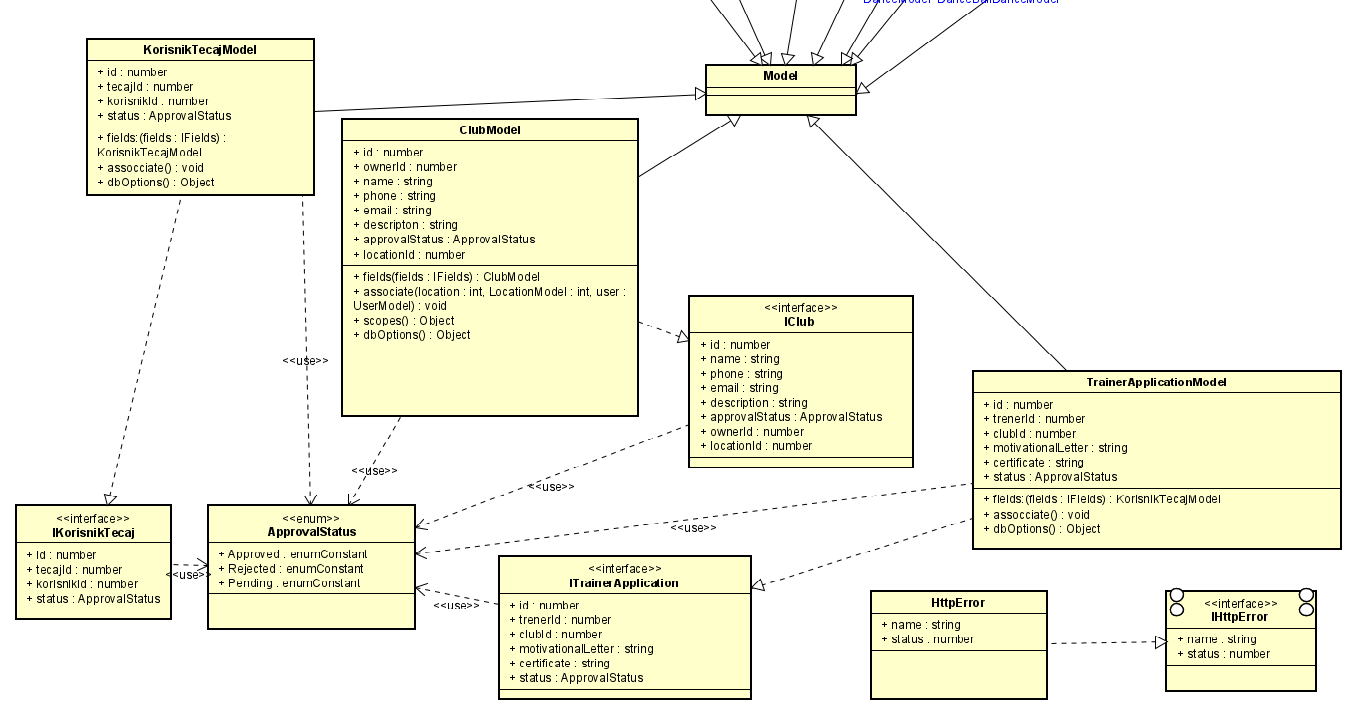
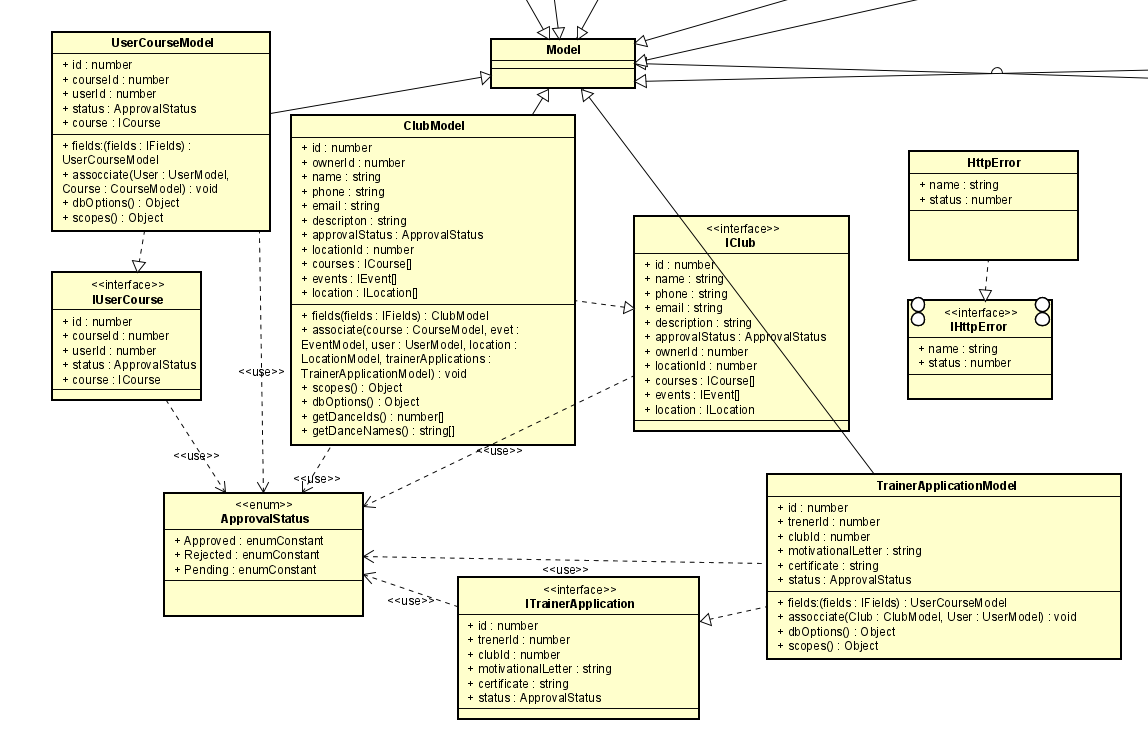
added class diagram and git activity

diff --git a/documentation/Dodatak.tex b/documentation/Dodatak.tex
@@ -206,7 +206,7 @@
 
 				Arhitektura i dizajn sustava	 &3h  &  &  &  &  & 2h &  \\ 
 				Baza podataka				& 1h & 5h &  & 5h &  & 2h & 5h\\ 
-				Dijagram razreda 			&  &  & 3h & 5h & 2h & 2h &  5h \\  
+				Dijagram razreda 			&  &  & 3h & 11h & 2h & 2h &  5h \\  
 				Dijagram stanja				& 2h &  &  &  &  &  &  \\ 
 				Dijagram aktivnosti 		&  & 3h &  &  &  &  &  \\ 
 				Dijagram komponenti			&  &  &  &  &  &  &  \\ 
@@ -215,7 +215,7 @@
 				Dijagram razmještaja			&  &  &  &  & 1.5h &  &  \\ 
 				Upute za puštanje u pogon 		&  &  &  &  &  &  &  \\  
 				Dnevnik sastajanja 			&  &  &  & 2h &  &  &3h  \\ 
-				Zaključak i budući rad 		&  &  &  &  &  &  &  \\  
+				Zaključak i budući rad 		&  &  &  & 1.5h  &  &  &  \\  
 				Popis literature 			&  &  &  &  &  &  &  \\  
 				&  &  &  &  &  &  &  \\ \hline 
 				\textit{Postavljanje klijentske strane aplikacije} 				&  & 9h &  &  & 5h & 2h &  \\  
@@ -227,6 +227,11 @@
 				\textit{Kreacija kluba} 							&  &  &  &  &  & 2h &  \\ 
 				\textit{Kreacija, uredivanje i pregled korisnika} 							&  &  &  &  &  & 5h &  \\ 
 				\textit{Pustanje u pogon (deployment)} 							&  &  &  &  &  & 4h  &  \\
+				\textit{Kreacija modela Course i Lesson, migracija, punjenje baze} 							&  &  &  & 10h &  & &  \\
+				\textit{Inicijalizacija mape} 							&  &  &  & 13h &  & &  \\
+				\textit{Prikaz courseva na karti} 							&  &  &  &17h  &  & &  \\
+				\textit{Prikaz Lessona na kalendaru} 							&  &  &  & 10h &  & &  \\
+				\textit{Seed adekvatnih podataka u bazu} 							&  &  &  &3h  &  & &  \\
 			\end{longtblr}
 					
 					
@@ -236,5 +241,40 @@
 		% \textbf{\textit{dio 2. revizije}}\\
 		
 		% \textit{Prenijeti dijagram pregleda promjena nad datotekama projekta. Potrebno je na kraju projekta generirane grafove s gitlaba prenijeti u ovo poglavlje dokumentacije. Dijagrami za vlastiti projekt se mogu preuzeti s gitlab.com stranice, u izborniku Repository, pritiskom na stavku Contributors.}
-		
+		\begin{figure}[H]
+			\includegraphics[scale=0.6]{slike/git1.png} %veličina slike u odnosu na originalnu datoteku i pozicija slike
+			\centering
+			\caption{Aktivnost develop grane 1}
+			\label{fig:aktivnost1}
+		\end{figure}
+		\begin{figure}[H]
+			\includegraphics[scale=0.6]{slike/git2.png} %veličina slike u odnosu na originalnu datoteku i pozicija slike
+			\centering
+			\caption{Aktivnost develop grane 2}
+			\label{fig:aktivnost2}
+		\end{figure}
+		\begin{figure}[H]
+			\includegraphics[scale=0.6]{slike/git3.png} %veličina slike u odnosu na originalnu datoteku i pozicija slike
+			\centering
+			\caption{Aktivnost develop grane 3}
+			\label{fig:aktivnost3}
+		\end{figure}
+		\begin{figure}[H]
+			\includegraphics[scale=0.6]{slike/git4.png} %veličina slike u odnosu na originalnu datoteku i pozicija slike
+			\centering
+			\caption{Aktivnost develop grane 4}
+			\label{fig:aktivnost4}
+		\end{figure}
+		\begin{figure}[H]
+			\includegraphics[scale=0.6]{slike/git5.png} %veličina slike u odnosu na originalnu datoteku i pozicija slike
+			\centering
+			\caption{Aktivnostde develop grane 5}
+			\label{fig:aktivnost5}
+		\end{figure}
+		\begin{figure}[H]
+			\includegraphics[scale=1.0]{slike/git6.png} %veličina slike u odnosu na originalnu datoteku i pozicija slike
+			\centering
+			\caption{Aktivnost devdoc grane}
+			\label{fig:aktivnost6}
+		\end{figure}
 	

diff --git a/documentation/Arhitektura.tex b/documentation/Arhitektura.tex
@@ -313,21 +313,20 @@ Osnovna karakteristika ovog stila je nezavisan razvoj pojedinih dijelova aplikac
 			logičku cjelinu ili nasljeđuju i implementiraju zajedničke enumeracuje ili sučelja.
 			Iz naziva i tipova atributa u razredima moze se zaključiti vrsta ovisnosti među različitim razredima. \\
 
-			\noindent Dijagram koji slijedi prikazuje modele Korisnika i Lokacije koji su implementirani u aplikaciji te 
-			model TecajModel koji još nije implemetirann te je sklon promjenama. Postoji mogućnost dodavanja novih metoda tijekom implementacije.
+			\noindent Dijagram koji slijedi prikazuje modele User i Location te 
+			model CourseModel.
 			Model User implementira sučelje IUser, koje definira njegove atribute, i koristi enumeraciju Role i Gender. Role definira ulogu korisnika, a
-			Gender spol korisnika. Model Tecaj implementira sučelje ITecaj i korisni enumeraciju Gender za definiranje spola kojem je tečaj namijenjen.
+			Gender spol korisnika. Model Course implementira sučelje ICourse i korisni enumeraciju Gender za definiranje spola kojem je tečaj namijenjen, ako je za tečaj definirano ograničenje po spolu.
 			\\
 			\begin{figure}[H]
 				\includegraphics[scale=1.0]{slike/class1.png}
 				\centering
-				\caption{Dio klasnog dijagrama vezan uz modele User, Tecaj i Location.}
+				\caption{Dio klasnog dijagrama vezan uz modele User, Course i Location.}
 				\label{fig:class1}
 			\end{figure}		
 			
-			\noindent Dijagram koji slijedi prikazuje model Kluba koji je implementiran u aplikaciji te modele TrainerApplication i KorisnikTecaj
-			koji još nisu implemetirani te su skloni promjenama. Postoji mogućnost dodavanja novih metoda tijekom implementacije.
-			Model Klub implemetnira sučelje IKlub koji definira njegove atribute te korisni enumeraciju ApprovalStatus koja opisuje je li 
+			\noindent Dijagram koji slijedi prikazuje modele Club, TrainerApplication i UserCourse.
+			Model Club implemetnira sučelje IClub koji definira njegove atribute te korisni enumeraciju ApprovalStatus koja opisuje je li 
 			administrator prihvatio tog kluba u sustavu ili ne. Klasa HttpError implementira sučelje IHttpError kojom lovimo moguće iznimke 
 			nastale u kodu.\\
 			\begin{figure}[H]
@@ -337,19 +336,16 @@ Osnovna karakteristika ovog stila je nezavisan razvoj pojedinih dijelova aplikac
 				\label{fig:class1}
 			\end{figure}
 
-			\noindent Dijagram koji slijedi prikazuje okvirno stanje modela zato što oni još nisu implementirani. Popisane metode su 
-			ugrubo navedene i sklone su promjenama. Postoji mogućnost dodavanja novih metoda tijekom implementacije.\\
+			\noindent Dijagram koji slijedi prikazuje modele Dance, Event, EventDance i Lesson. Svaki od modela implementira  svoje sučelje koje definira njegove atribute. \\
 			\begin{figure}[H]
 				\includegraphics[scale=1.0]{slike/class3.png}
 				\centering
-				\caption{Dio klasnog dijagrama vezan uz modele Dance, DanceBall i Training.}
+				\caption{Dio klasnog dijagrama vezan uz modele Dance, Event, EventDance i Lesson.}
 				\label{fig:class1}
 			\end{figure}
 
 		% 	\textit{Prilikom druge predaje projekta dijagram razreda i opisi moraju odgovarati stvarnom stanju implementacije}
-			
-			
-			
+					
 		\eject
 		
 		\section{Dijagram stanja}

diff --git a/documentation/Dnevnik_promjena_dokumentacije.tex b/documentation/Dnevnik_promjena_dokumentacije.tex
@@ -26,11 +26,13 @@
 			0.16 & Promijenjen opis, popravljeni opisi i tablice baze & Nina Đurić & 16.11.2022. \\[3pt] \hline	
 			0.17 & Dodana arhitektura projekta i promjene opisa baze podataka& Mateja Golec & 17.11.2022. \\[3pt] \hline
 			0.18 & Dodani dijagrami razreda& Lara Đaković & 17.11.2022. \\[3pt] \hline
-			\textbf{1.0} & Verzija samo s bitnim dijelovima za 1. ciklus & * & 18.11.2022. \\[3pt] \hline 
-			1.1 & Dodan dijagram stanja - registrirani korisnik (klijent) & Mateja Golec & 11.1.2023. \\[3pt] \hline
-			1.2 & Dodan opis korištenih alata i tehnologija & Mateja Golec & 11.1.2023. \\[3pt] \hline
-			1.3 & Dodan dijagram aktivnosti & Karlo Boroš & 12.1.2023. \\[3pt] \hline
-			1.4 & Dodan dijagram razmještaja & Nina Đurić & 13.1.2023. \\[3pt] \hline
+			\textbf{1.0} & Verzija samo s bitnim dijelovima za 1. ciklus & * & 18.11.2022. \\[3pt] \hline
+			1.1 & Dodan zaključak & Lara Đaković & 10.1.2023. \\[3pt] \hline
+			1.2 & Dodan dijagram stanja - registrirani korisnik (klijent) & Mateja Golec & 11.1.2023. \\[3pt] \hline
+			1.3 & Dodan opis korištenih alata i tehnologija & Mateja Golec & 11.1.2023. \\[3pt] \hline
+			1.4 & Dodan dijagram aktivnosti & Karlo Boroš & 12.1.2023. \\[3pt] \hline
+			1.5 & Dodan dijagram razmještaja & Nina Đurić & 13.1.2023. \\[3pt] \hline
+			1.6 & Dovršen dijagram razreda & Lara Đaković & 13.1.2023. \\[3pt] \hline
 		\end{longtblr}
 	
 	
